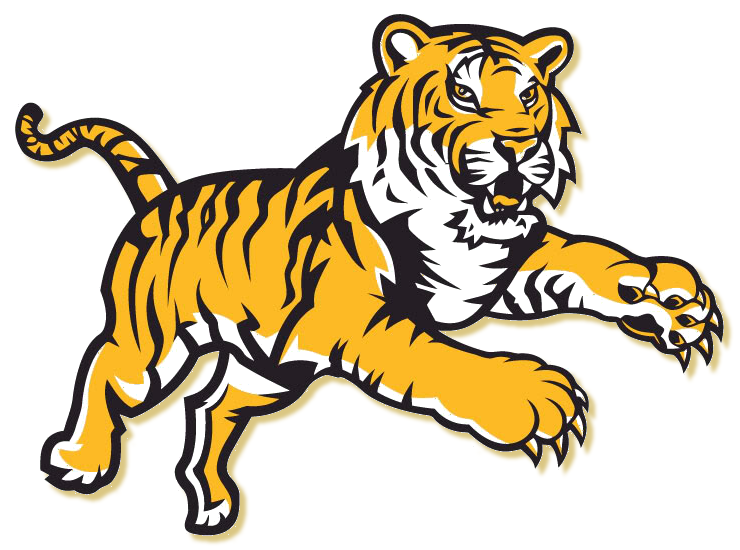
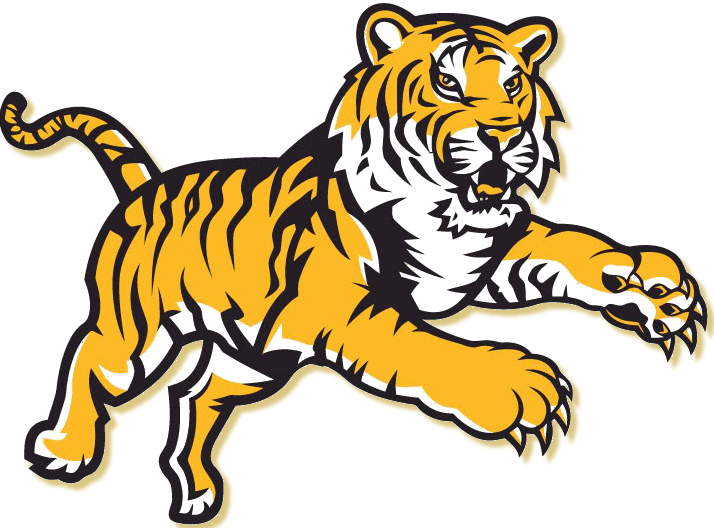
crop sprites and add platform and spike generation to environment

Changed region(s): [[0.0, 0.0, 1.0, 1.0]]

diff --git a/environment.py b/environment.py
@@ -36,8 +36,15 @@ def genMap():
     # Add obstacles
     for i in range(0, 10):
         for k in range(0, 100):
+
+            # Generate platforms and diamonds
             if k == random.randint(10, 90) and i < 4:
                 mapArray[i][k] = 2
+                # mapArray[i - 2][k] = 5
+
+            # Generate ground spikes
+            if k == (random.randint(10, 90) or random.randint(10, 90)) and i == (4 + 1):
+                mapArray[i][k] = 4
 
     
     return mapArray
